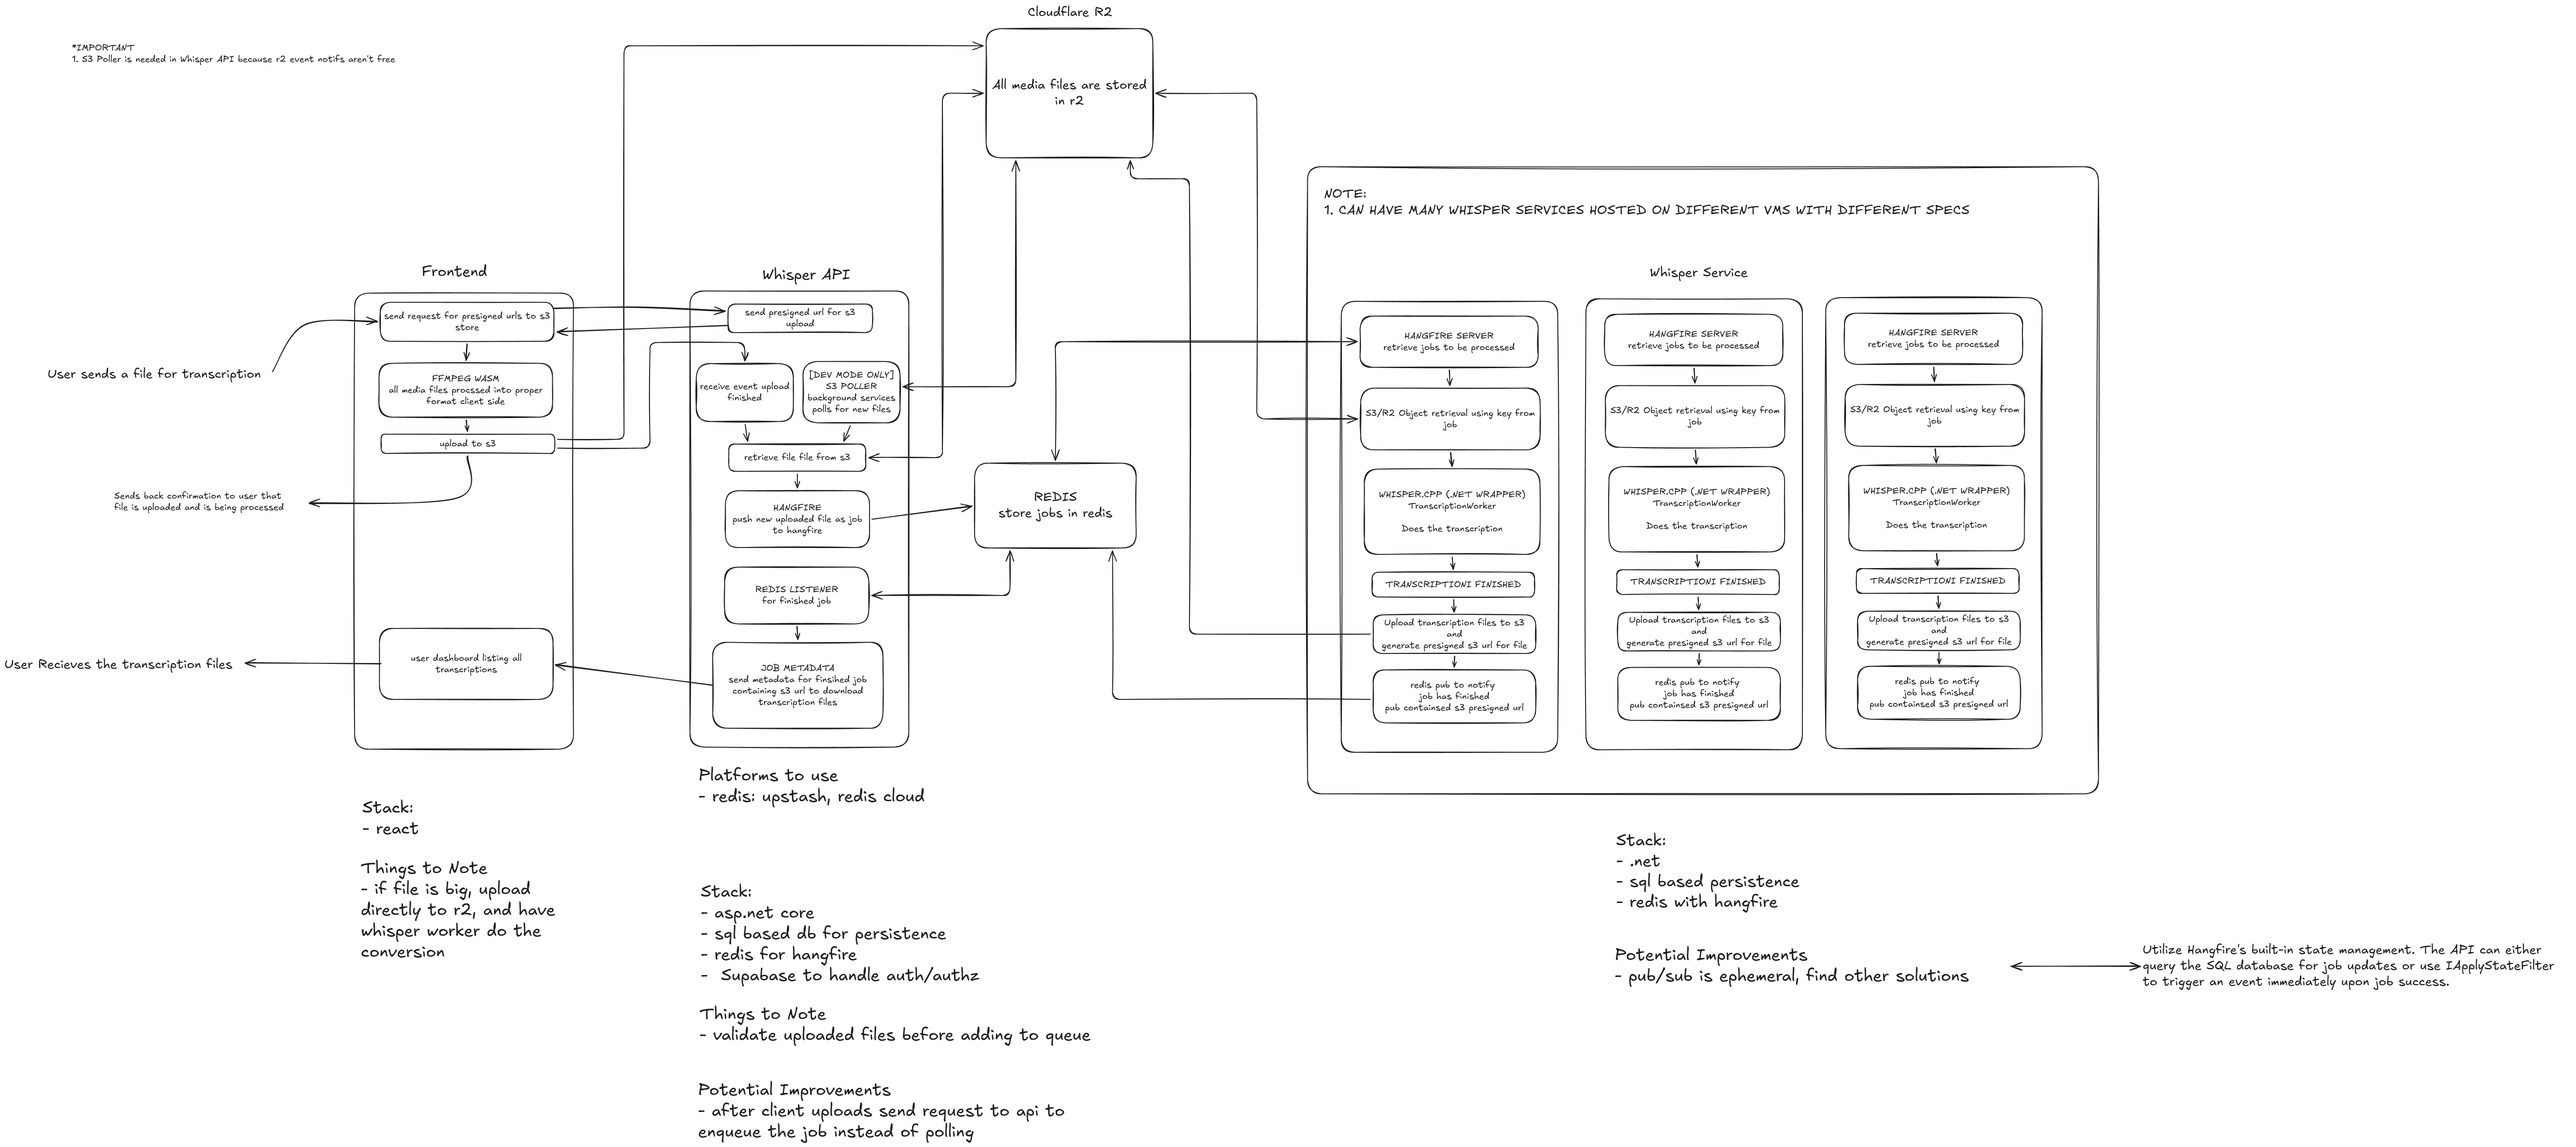
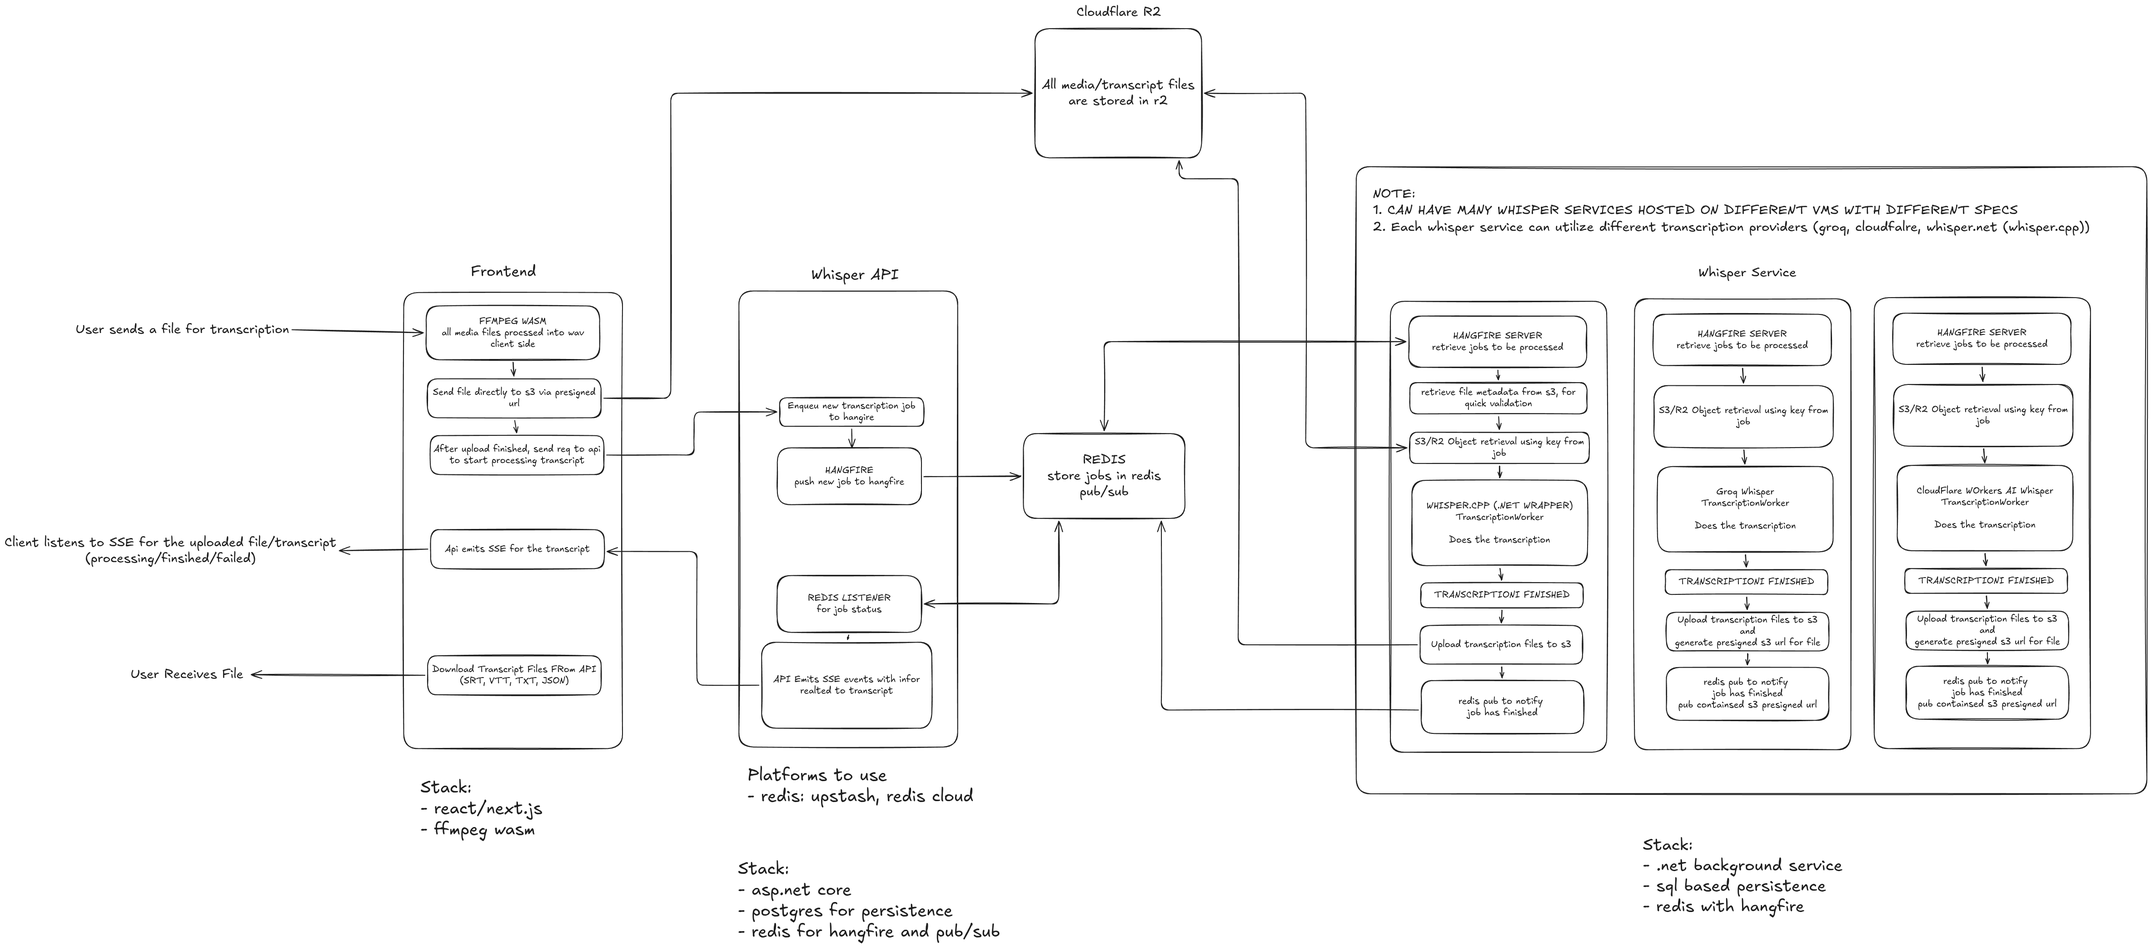
Dev (#53)
* fix: correct string interpolation for redirect URLs in Google authentication error handling

* feat: enhance user password generation with NanoID for uniqueness

* chore: update application architecture diagram

* fix: update README

diff --git a/Api.Web/Endpoints/Users.cs b/Api.Web/Endpoints/Users.cs
@@ -12,6 +12,7 @@ using Microsoft.AspNetCore.Identity;
 using Microsoft.AspNetCore.Mvc;
 using Microsoft.AspNetCore.WebUtilities;
 using Microsoft.Extensions.Options;
+using NanoidDotNet;
 
 namespace Api.Web.Endpoints;
 
@@ -77,7 +78,7 @@ public class Users : IEndpointGroup
         }
         catch (Exception)
         {
-            return RedirectWithError($"${clientDomain}/signup", "Google authentication failed.",
+            return RedirectWithError($"{clientDomain}/signup", "Google authentication failed.",
                 "An unexpected error occured while trying to authenticate with google, please try again.");
         }
     }
@@ -128,7 +129,8 @@ public class Users : IEndpointGroup
             var user = await userManager.FindByEmailAsync(email);
             if (user == null)
             {
-                var userPassword = $"{email}-WS-{nameIdentifier}";
+                var nanoId = Nanoid.Generate(size: 10);
+                var userPassword = $"{email}-WS-{nameIdentifier}-{nanoId}";
                 RegisterUserCommand command = new RegisterUserCommand
                 {
                     Email = email,
@@ -183,7 +185,7 @@ public class Users : IEndpointGroup
         }
         catch (Exception)
         {
-            return RedirectWithError($"${clientDomain}/login", "Google authentication failed.",
+            return RedirectWithError($"{clientDomain}/login", "Google authentication failed.",
                 "An unexpected error occured while trying to authenticate with google, please try again.");
         }
     }

diff --git a/README.MD b/README.MD
@@ -1,6 +1,6 @@
-# WordScribe Backend
+# BadlitBuddy Backend
 
-WordScribe is a scalable, distributed audio transcription backend built using **.NET 10**, designed to process media files using **Whisper.net** (a C# wrapper for whisper.cpp). It features a decoupled architecture composed of an ASP.NET Core Web API and autonomous Whisper Worker Services orchestrated via **Hangfire** and **Redis**.
+BadlitBuddy is a scalable, distributed audio transcription backend built using **.NET 10**, designed to process media files using **Whisper.net** (a C# wrapper for whisper.cpp) and third-party whisper providers (**Groq**, **Cloudflare Workers AI**). It features a decoupled architecture composed of an ASP.NET Core Web API and autonomous Whisper Worker Services orchestrated via **Hangfire** and **Redis**, with optional orchestration and telemetry via **.NET Aspire**.
 
 ![alt text](app-architecture.png)
 
@@ -33,35 +33,46 @@ The system architecture is designed for high scalability, allowing multiple Whis
 ```
 
 ### Flow of Data:
+
 1. **Upload Request**: The client requests a presigned upload URL from the Web API.
-2. **Direct Upload**: The client uploads the audio/video file directly to **Cloudflare R2 / S3** storage using the presigned URL.
+2. **Direct Upload**: The client uploads the audio/video file directly to **Cloudflare R2 / AWS S3** storage using the presigned URL.
 3. **Queue Job**: The API enqueues a transcription job to **Redis** using **Hangfire**.
-   - *Note*: In Development Mode, a background poller (`S3 Poller`) can monitor the bucket for uploads (since Cloudflare R2 bucket event notifications can be costly).
-4. **Retrieve & Process**: An available **Whisper Worker Service** pulls the job from Hangfire, downloads the target media file from R2/S3, and runs it through the local **Whisper.net** engine.
-5. **Save & Notify**: The worker uploads the completed transcription file back to R2/S3, generates a presigned download URL, and notifies the client (via Redis pub/sub or Hangfire state change filters).
+4. **Retrieve & Process**: An available **Whisper Worker Service** pulls the job from Hangfire, downloads the target media file from R2/S3, and runs it through the configured engine (**Whisper.net**, **Groq**, or **Cloudflare Workers AI**).
+5. **Save & Notify**: The worker uploads the completed transcription file (JSON, SRT, VTT, TXT) back to R2/S3, updates status in PostgreSQL, and publishes completion events via Redis pub/sub.
 
 ---
 
 ## Project Structure
 
-The projecti structured following a Clean Architecture approach:
+The project is structured following Clean Architecture principles:
 
-*   **Api.Web**: ASP.NET Core Web API entrypoint. Handles user authentication (via Supabase), generates presigned storage URLs, enqueues jobs, and manages transcription metadata.
-*   **Api.Application** & **Api.Domain**: Houses the API's core business logic, domain models, and application workflows.
-*   **WhisperService.WorkerService**: A .NET Worker Service running a Hangfire server instance to process queued jobs using the Whisper engine.
-*   **WhisperService.Core** & **WhisperService.Infrastructure**: Implements transcription-specific components, including the Whisper engine wrapper and runtime logic.
-*   **ModelDownloader**: A utility CLI application to download pre-trained GGML Whisper models (e.g. Tiny, Medium, LargeV3Turbo) directly from HuggingFace/GitHub.
-*   **Shared Modules**:
-    *   **Shared.Abstractions**: Common interfaces and abstract contracts (e.g., storage, jobs, services).
-    *   **Shared.Contracts**: Data transfer objects (DTOs) and application-wide constants (languages, model options).
-    *   **Shared.Infrastructure**: Shared cross-cutting concerns such as AWS S3 clients, Hangfire Redis storage setup, and configuration options.
+- **Api.Web**: ASP.NET Core Web API entrypoint. Handles user authentication (JWT & Google OAuth with ASP.NET Core Identity), API endpoints (Scalar API documentation), presigned storage URLs, transcription metadata, and Hangfire dashboard.
+- **Api.Application** & **Api.Domain**: Houses the API's core business logic, domain entities (transcriptions, organizations, subscriptions), interfaces, and CQRS/application workflows.
+- **Api.Infrastructure**: Database persistence using **Entity Framework Core** with **PostgreSQL** (`Npgsql.EntityFrameworkCore.PostgreSQL`), JWT token services, Google auth, and interceptors for auditing/soft-delete.
+- **Api.BackgroundServices**: _(Legacy)_ Background services containing earlier prototypes like `S3PollerWorker` (previously used for local bucket polling).
+- **WhisperService.WorkerService**: A .NET Worker Service running a Hangfire server instance to process queued transcription jobs using the configured transcription provider.
+- **WhisperService.Core** & **WhisperService.Infrastructure**: Implements transcription-specific components, including the Whisper engine wrapper, audio extraction/processing (FFMpegCore, NAudio), and external API clients (Groq, Cloudflare Workers AI).
+- **Aspire.AppHost**, **Aspire.ServiceDefaults**, & **Aspire.Shared**: .NET Aspire orchestration and shared telemetry defaults for running and observing the distributed system locally.
+- **ModelDownloader**: _(Legacy / Unused)_ Utility CLI previously used to download pre-trained GGML Whisper models. **Note:** ModelDownloader is no longer used since model downloading is handled directly via Docker and CI/CD pipelines.
+- **Shared Modules**:
+  - **Shared.Abstractions**: Common interfaces and abstract contracts (storage, jobs, repositories, services).
+  - **Shared.Common**: Utility helpers and shared functionality.
+  - **Shared.Contracts**: Data transfer objects (DTOs), API contracts, and application-wide constants/enums (languages, model options, transcription providers).
+  - **Shared.Infrastructure**: Shared cross-cutting concerns such as AWS S3 / Cloudflare R2 client setup, Hangfire Redis storage, Dapper repository access, Redis pub/sub messaging, and job execution implementations.
 
 ---
 
 ## Tech Stack
 
-*   **Runtime**: .NET 10
-*   **Queue & Orchestration**: Hangfire with Redis (`Hangfire.Redis.StackExchange`)
-*   **Transcription Engine**: Whisper.net (utilizing whisper.cpp runtimes)
-*   **Storage**: Cloudflare R2 / AWS S3 compatibility via `AWSSDK.S3`
-*   **Database**: SQL-based database for persistence
+- **Runtime & Orchestration**: .NET 10, .NET Aspire
+- **API Documentation**: OpenAPI / Scalar (`Scalar.AspNetCore`)
+- **Authentication**: ASP.NET Core Identity with JWT Bearer and Google OAuth
+- **Queue & Orchestration**: Hangfire with Redis (`Hangfire.Redis.StackExchange`)
+- **Transcription Engines & Providers**:
+  - **Whisper.net** (utilizing whisper.cpp runtime with GGML models)
+  - **Groq Whisper API**
+  - **Cloudflare Workers AI Whisper**
+- **Storage**: Cloudflare R2 / AWS S3 compatibility via `AWSSDK.S3`
+- **Database**: PostgreSQL (Entity Framework Core for API data access & Dapper for worker repositories)
+- **Audio Processing**: FFMpegCore, NAudio
+- **Messaging**: Redis Pub/Sub (`StackExchange.Redis`)
